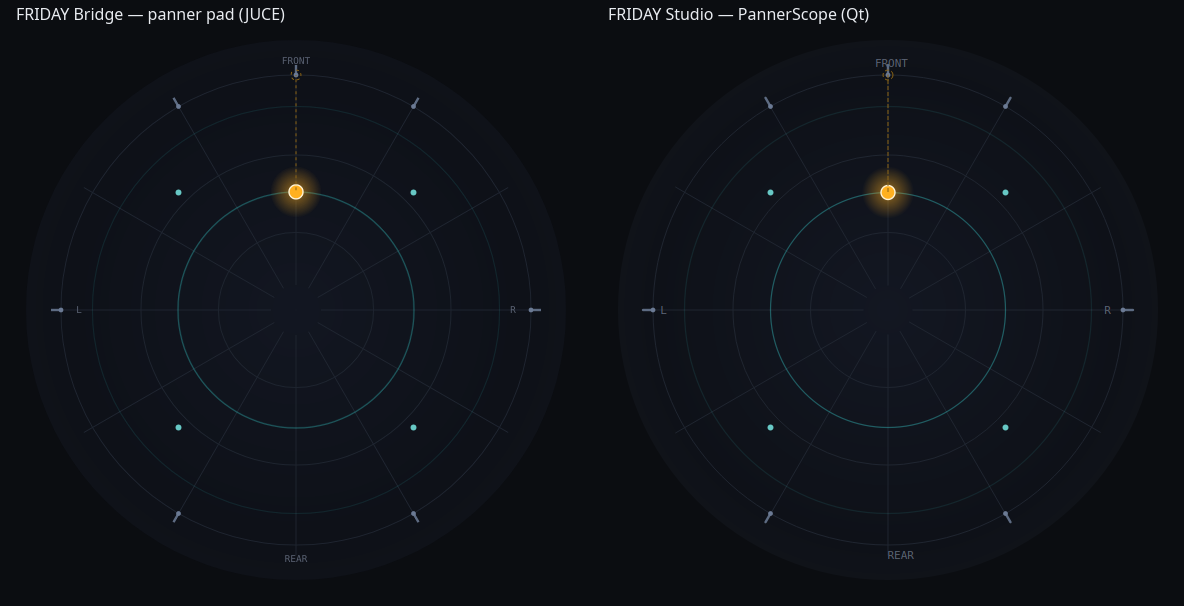
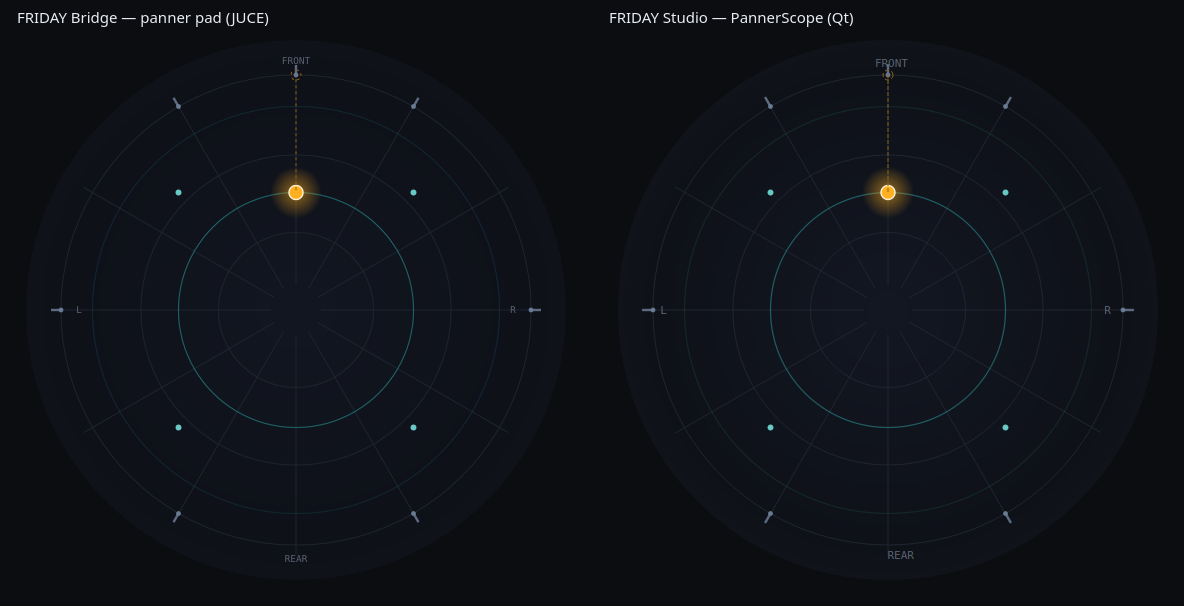
docs(b7): close the §B6-2 follow-up, with the evidence it was waiting for
BRIDGE-B2-PLAN.md gains §B7: what changed in the dome surface and what that
means for a session, the quantisation defect gating turned up, the two gates
and the counterfactual that gives the old error a size (-40.29 dBFS), the
screenshot refresh, and the regression table. §B6-2's "not done, flagged" now
points at it.

Parity sheets regenerated for both B5 poses. The Studio panels come back
byte-identical -- Studio did not move, the Bridge moved to meet it -- and
bridge_tent_az+30.png is byte-identical too, so the change landed on the dome
and nowhere else.

parity_sheet.py is new: the sheets were composed by hand and could not be
rebuilt. It reproduces the original layout exactly (the panel regions diff to
zero); only the caption strip re-renders in whatever sans the bench resolves.

Changed region(s): [[0.0, 0.0, 0.25, 0.0594], [0.5, 0.0, 0.75, 0.0594]]

diff --git a/docs/evidence/b5/parity_sheet.py b/docs/evidence/b5/parity_sheet.py
@@ -1,0 +1,66 @@
+#!/usr/bin/env python3
+"""Compose the B5 parity sheets: Bridge's pad beside Studio's PannerScope.
+
+The two panels are rendered separately -- `bridge_*.png` by the gtest
+`FridayPannerScope_test.renders_the_parity_poses` (run with FRIDAY_B5_SHOTS
+set), `studio_*.png` by `studio_scope_shot.py` -- and this only lays them out,
+so the sheet can be regenerated whenever either side changes without either
+side having to know about the other.
+
+The geometry is measured from the original B5 sheets: 1184x606 on the window
+ground, panels at (16, 30) and (608, 30), labels on the panel's left edge.
+
+    python3 parity_sheet.py [out-dir]      # default: this directory
+"""
+import os
+import sys
+
+os.environ.setdefault("QT_QPA_PLATFORM", "offscreen")
+
+from PySide6.QtCore import Qt                                    # noqa: E402
+from PySide6.QtGui import QColor, QFont, QPainter, QPixmap       # noqa: E402
+from PySide6.QtWidgets import QApplication                       # noqa: E402
+
+HERE = os.path.dirname(os.path.abspath(__file__))
+OUT = sys.argv[1] if len(sys.argv) > 1 else HERE
+
+W, H = 1184, 606
+PANEL = 560
+LEFT_X, RIGHT_X, PANEL_Y = 16, 608, 30
+BG = QColor(11, 13, 17)
+LABEL = QColor(232, 235, 240)
+LABEL_BASELINE = 23
+
+POSES = ["az+30_el0", "az0_el60"]
+CAPTIONS = ("FRIDAY Bridge — panner pad (JUCE)",
+            "FRIDAY Studio — PannerScope (Qt)")
+
+app = QApplication([])
+
+for pose in POSES:
+    sheet = QPixmap(W, H)
+    sheet.fill(BG)
+    painter = QPainter(sheet)
+    painter.setRenderHint(QPainter.TextAntialiasing, True)
+
+    for x, caption, src in ((LEFT_X, CAPTIONS[0], f"bridge_{pose}.png"),
+                            (RIGHT_X, CAPTIONS[1], f"studio_{pose}.png")):
+        panel = QPixmap(os.path.join(HERE, src))
+        if panel.isNull():
+            raise SystemExit(f"missing panel: {src}")
+        if panel.width() != PANEL or panel.height() != PANEL:
+            raise SystemExit(f"{src} is {panel.width()}x{panel.height()}, "
+                             f"expected {PANEL}x{PANEL}")
+        painter.drawPixmap(x, PANEL_Y, panel)
+
+        font = QFont()
+        font.setPixelSize(15)
+        painter.setFont(font)
+        painter.setPen(LABEL)
+        painter.drawText(x + 1, LABEL_BASELINE, caption)
+
+    painter.end()
+    out = os.path.join(OUT, f"parity_{pose}.png")
+    if not sheet.save(out, "PNG"):
+        raise SystemExit(f"could not write {out}")
+    print("wrote", out)

diff --git a/BRIDGE-B2-PLAN.md b/BRIDGE-B2-PLAN.md
@@ -920,6 +920,7 @@ Two consequences worth stating:
   The pad defers to Eclipsa's, because that is the surface that moves audio.
   Making them identical means changing Eclipsa's dome equation, which changes
   the render and the deliverable — **not done, flagged.**
+  → **Done and gated in §B7.**
 
 Two real defects surfaced while testing this, both of which would have shipped:
 
@@ -969,3 +970,106 @@ the old harness lands on 30.000723 instead, so it no longer matches that
 reference (−62.14 dBFS) and matches the original one instead (−109.53 dBFS). The
 regression target for B2-5 is the **original** `B2_ref.iamf` from here on; the
 regenerated one is kept only as the record of why it existed.
+
+---
+
+## §B7. The dome surface becomes Studio's dome
+
+The last item §B6-2 left open, treated as a gated change rather than a patch
+because three deliverable-producing paths read this surface.
+
+### §B7-1. What changed
+
+`ElevationListener::getDomeElevationPtClamped` computed
+`height = 2·√(1 − x² − y²) − 1` — a dome over a room whose floor is at −1, so
+its rim sat at floor level. It now computes `height = √(1 − x² − y²)`, the unit
+sphere, which is Studio's `PannerScope.constraint_elevation("dome")`:
+`el = acos(r)`, rim at the horizon, centre at the zenith.
+
+**One implementation, so agreement is structural.** That function is the only
+dome surface in the tree. The panner pad, the room views, Eclipsa's monitoring
+render and the KALA export all reach it through the same call, so they moved
+together; there was no second copy to keep in step. tent, arch, curve and flat
+are untouched.
+
+**What it means for a session.** A dome-constrained object at full radius now
+sits at ear level rather than on the floor — `getDomeElevationPtClamped` returns
+a height in [0, 1] where it returned [−1, 1]. That is the change; it is why this
+was gated.
+
+### §B7-2. A second defect, found by gating
+
+`parameterChanged` opened with `int newZ = currentZ`, three lines above the
+comment §B6-1 left promising the dome write would not be rounded. Every derived
+height was truncated to a whole unit. At normalised radius 0.5 the sphere wants
+Z = 43.30127 and the int gave 43 — 59.83° instead of 60.000°, small but enough
+to move the VBAP gains against a layout whose nearest speakers are at 45°, and
+enough to keep the elevated gate below sample-exact.
+
+`newZ` is now `float`. tent and arch keep the truncation they have always had,
+written as an explicit `std::trunc` instead of left to an implicit conversion;
+curve's `std::ceil` already produced an integral value. Only the dome's height
+changes.
+
+### §B7-3. The gates
+
+Both are headless REAPER 7.78 → KALA export → FFmpeg null against a
+`studio_cli` reference, the B2-5 harness unchanged. Evidence in
+`docs/evidence/b7/`.
+
+**A — the regression.** az +30.000, el 0, elevation mode "none". An
+azimuth-only pan never touches the dome surface, so this number had to stay
+exactly where §B6-1 left it. It did: **−inf dBFS, sample-exact on all 12
+channels**, against the **original** `B2_ref.iamf` — no reference regeneration,
+same captured `X=−25.0000000 Y=43.3012695`.
+
+**B — the pose the old surface got wrong.** az 0, el 60, elevation mode "dome".
+X = 0 and Y = 25 arrive with the plugin state and `ElevationListener` derives
+the height; the script writes no Z, so the gate cannot pass by asserting its own
+arithmetic. Captured **Z = 43.3012695** — 50·√(1 − 0.5²) to the last digit the
+parameter holds — and the null against a `studio_cli` reference at the same
+pose is **−inf dBFS, sample-exact**: TFL/TFR at −19.03, TRL/TRR at −41.70 on
+both sides, everything else silent on both sides.
+
+**The counterfactual, so the fix has a size.** The same Bridge export against a
+Studio reference authored at **55.6725°** — the elevation the old surface
+assigned at this radius — nulls at only **−40.29 dBFS** and fails the −90 dBFS
+gate outright. That is the error that was in the deliverable.
+
+| gate | pose | reference | result |
+|---|---|---|---|
+| B7-A | az +30.000, el 0, none | original `B2_ref.iamf` | **−inf dBFS, sample-exact** |
+| B7-B | az 0, el 60, **dome** | `B7_ref.iamf` (az 0, el 60) | **−inf dBFS, sample-exact** |
+| B7-B′ | az 0, el 60, **dome** | `B7_old.iamf` (az 0, el 55.6725) | **−40.29 dBFS, FAIL** — the defect, measured |
+
+### §B7-4. Parity screenshots
+
+Regenerated for both B5 poses. The Studio panels come back **byte-identical** —
+Studio did not move, the Bridge moved to meet it — and the Bridge panels
+changed on both dome poses while `bridge_tent_az+30.png` is byte-identical,
+which is the blast radius the change was supposed to have.
+
+The sheets are now composed by `docs/evidence/b5/parity_sheet.py`, committed so
+they are reproducible. It places the two 560×560 panels exactly where the
+original B5 sheets had them (the panel regions diff to zero); only the caption
+strip re-renders, in whatever sans the bench resolves.
+
+### §B7 regression
+
+| Check | Before B7 | After B7 |
+|---|---|---|
+| B2-5 null, az +30.000 vs original `B2_ref.iamf` | −inf dBFS, sample-exact | **−inf dBFS, sample-exact** |
+| Elevated null, az 0 / el 60, dome | not gated — the pose was wrong by 4.33° | **−inf dBFS, sample-exact** |
+| Dome vs Studio at r = 0, ¼, ½, ¾, 1 | 90 / 71.2 / 55.7 / 39.5 / −90° | **exact, asserted to 0.01°** |
+| Bridge unit suite | 311 / 305, 2 skipped | **312 / 306, 2 skipped** (+1 parity test) |
+| — its 4 known failures | checksum ×2, Logger ×2 | **unchanged, same 4** |
+| kala-engine | 27 suites / 252 tests | **27 suites / 252 tests, 0 failed** |
+| REAPER scan + load | clean | **clean** — both gate runs instantiate both plugins |
+
+Two operational notes from this run, neither a product defect: REAPER does not
+always exit cleanly after `Main_OnCommand(40004)` on this bench — gate A hung
+and gate B segfaulted, both **after** the export was written and verified — so
+the harnesses are run under `timeout` and judged by their logs and artefacts.
+And the unit suite must still be run from an in-tree `build/`, per
+`docs/BUILDING-LINUX.md`; out of tree eight `FileOutputTests` fail on missing
+fixtures and `verify_metadata` segfaults.
